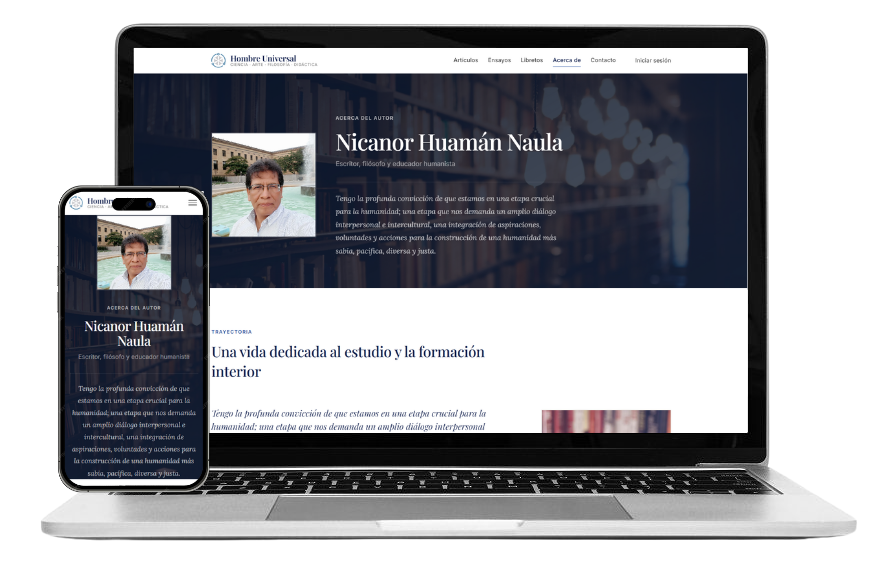
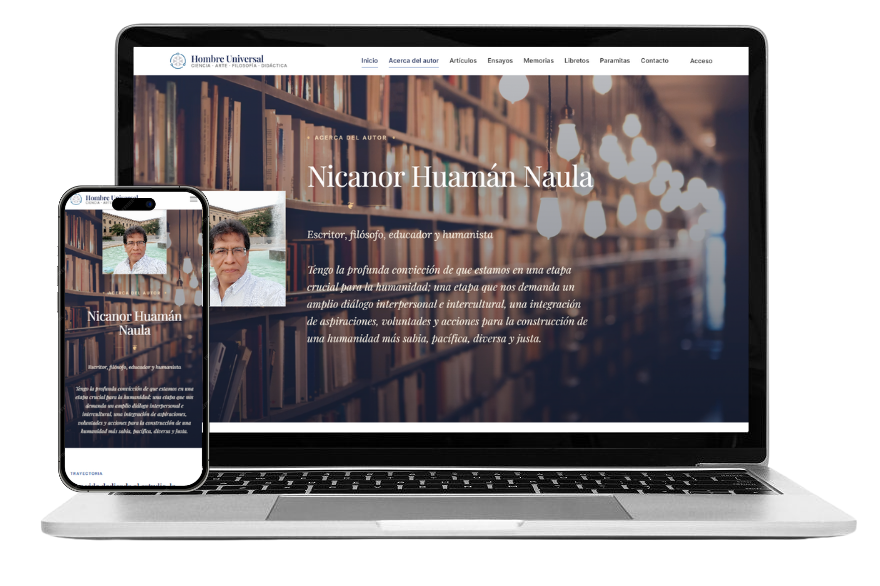
Update portfolio images and replace login image with new paramitas image

diff --git a/src/app/features/portafolio-seleccionado/portafolio-seleccionado.component.ts b/src/app/features/portafolio-seleccionado/portafolio-seleccionado.component.ts
@@ -326,7 +326,7 @@ export class PortafolioSeleccionadoComponent implements OnInit, AfterViewInit, O
         'assets/portfolio/hombre-universal-inicio.png',
         'assets/portfolio/hombre-universal-acerca-de.png',
         'assets/portfolio/hombre-universal-articulos.png',
-        'assets/portfolio/hombre-universal-login.png'
+        'assets/portfolio/hombre-universal-paramitas.png'
       ],
       description: 'Publicación digital orientada al descubrimiento del Hombre Trascendental: una síntesis de ciencia, arte, filosofía y educación para personas en búsqueda de sentido y crecimiento interior.',
       technologies: ['Angular', 'TypeScript', 'HTML5', 'CSS3', 'SEO On-Page'],
